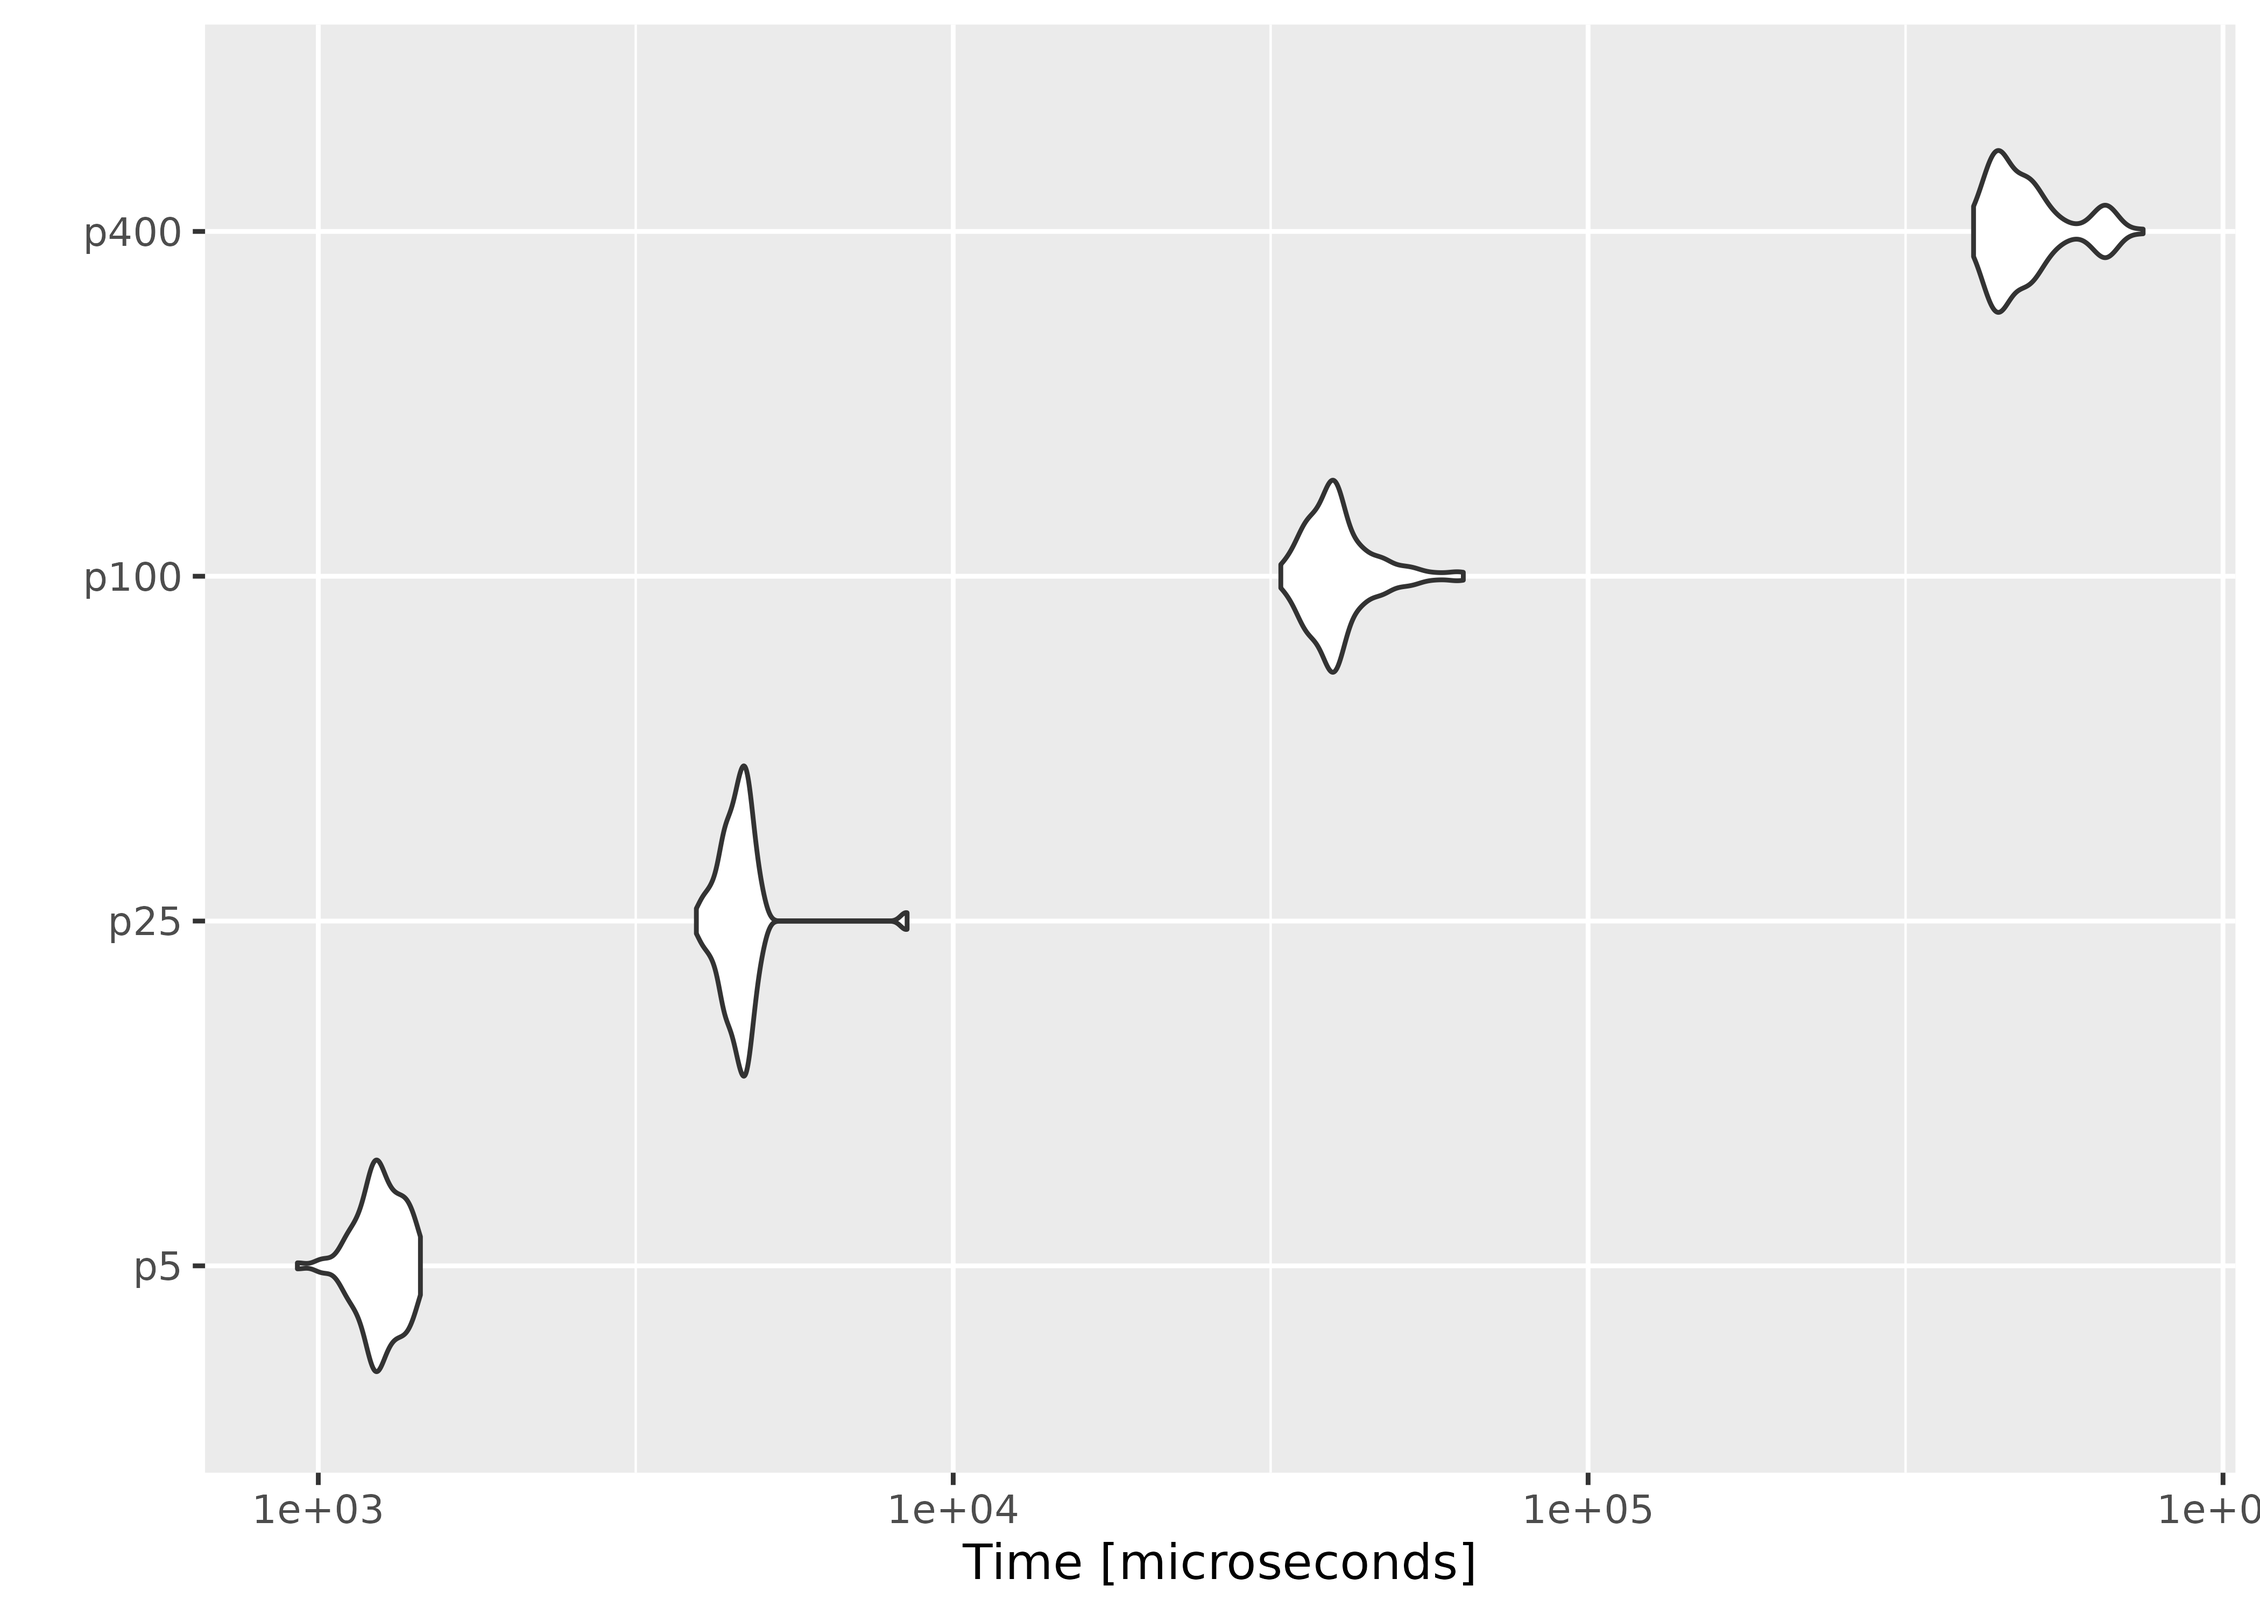
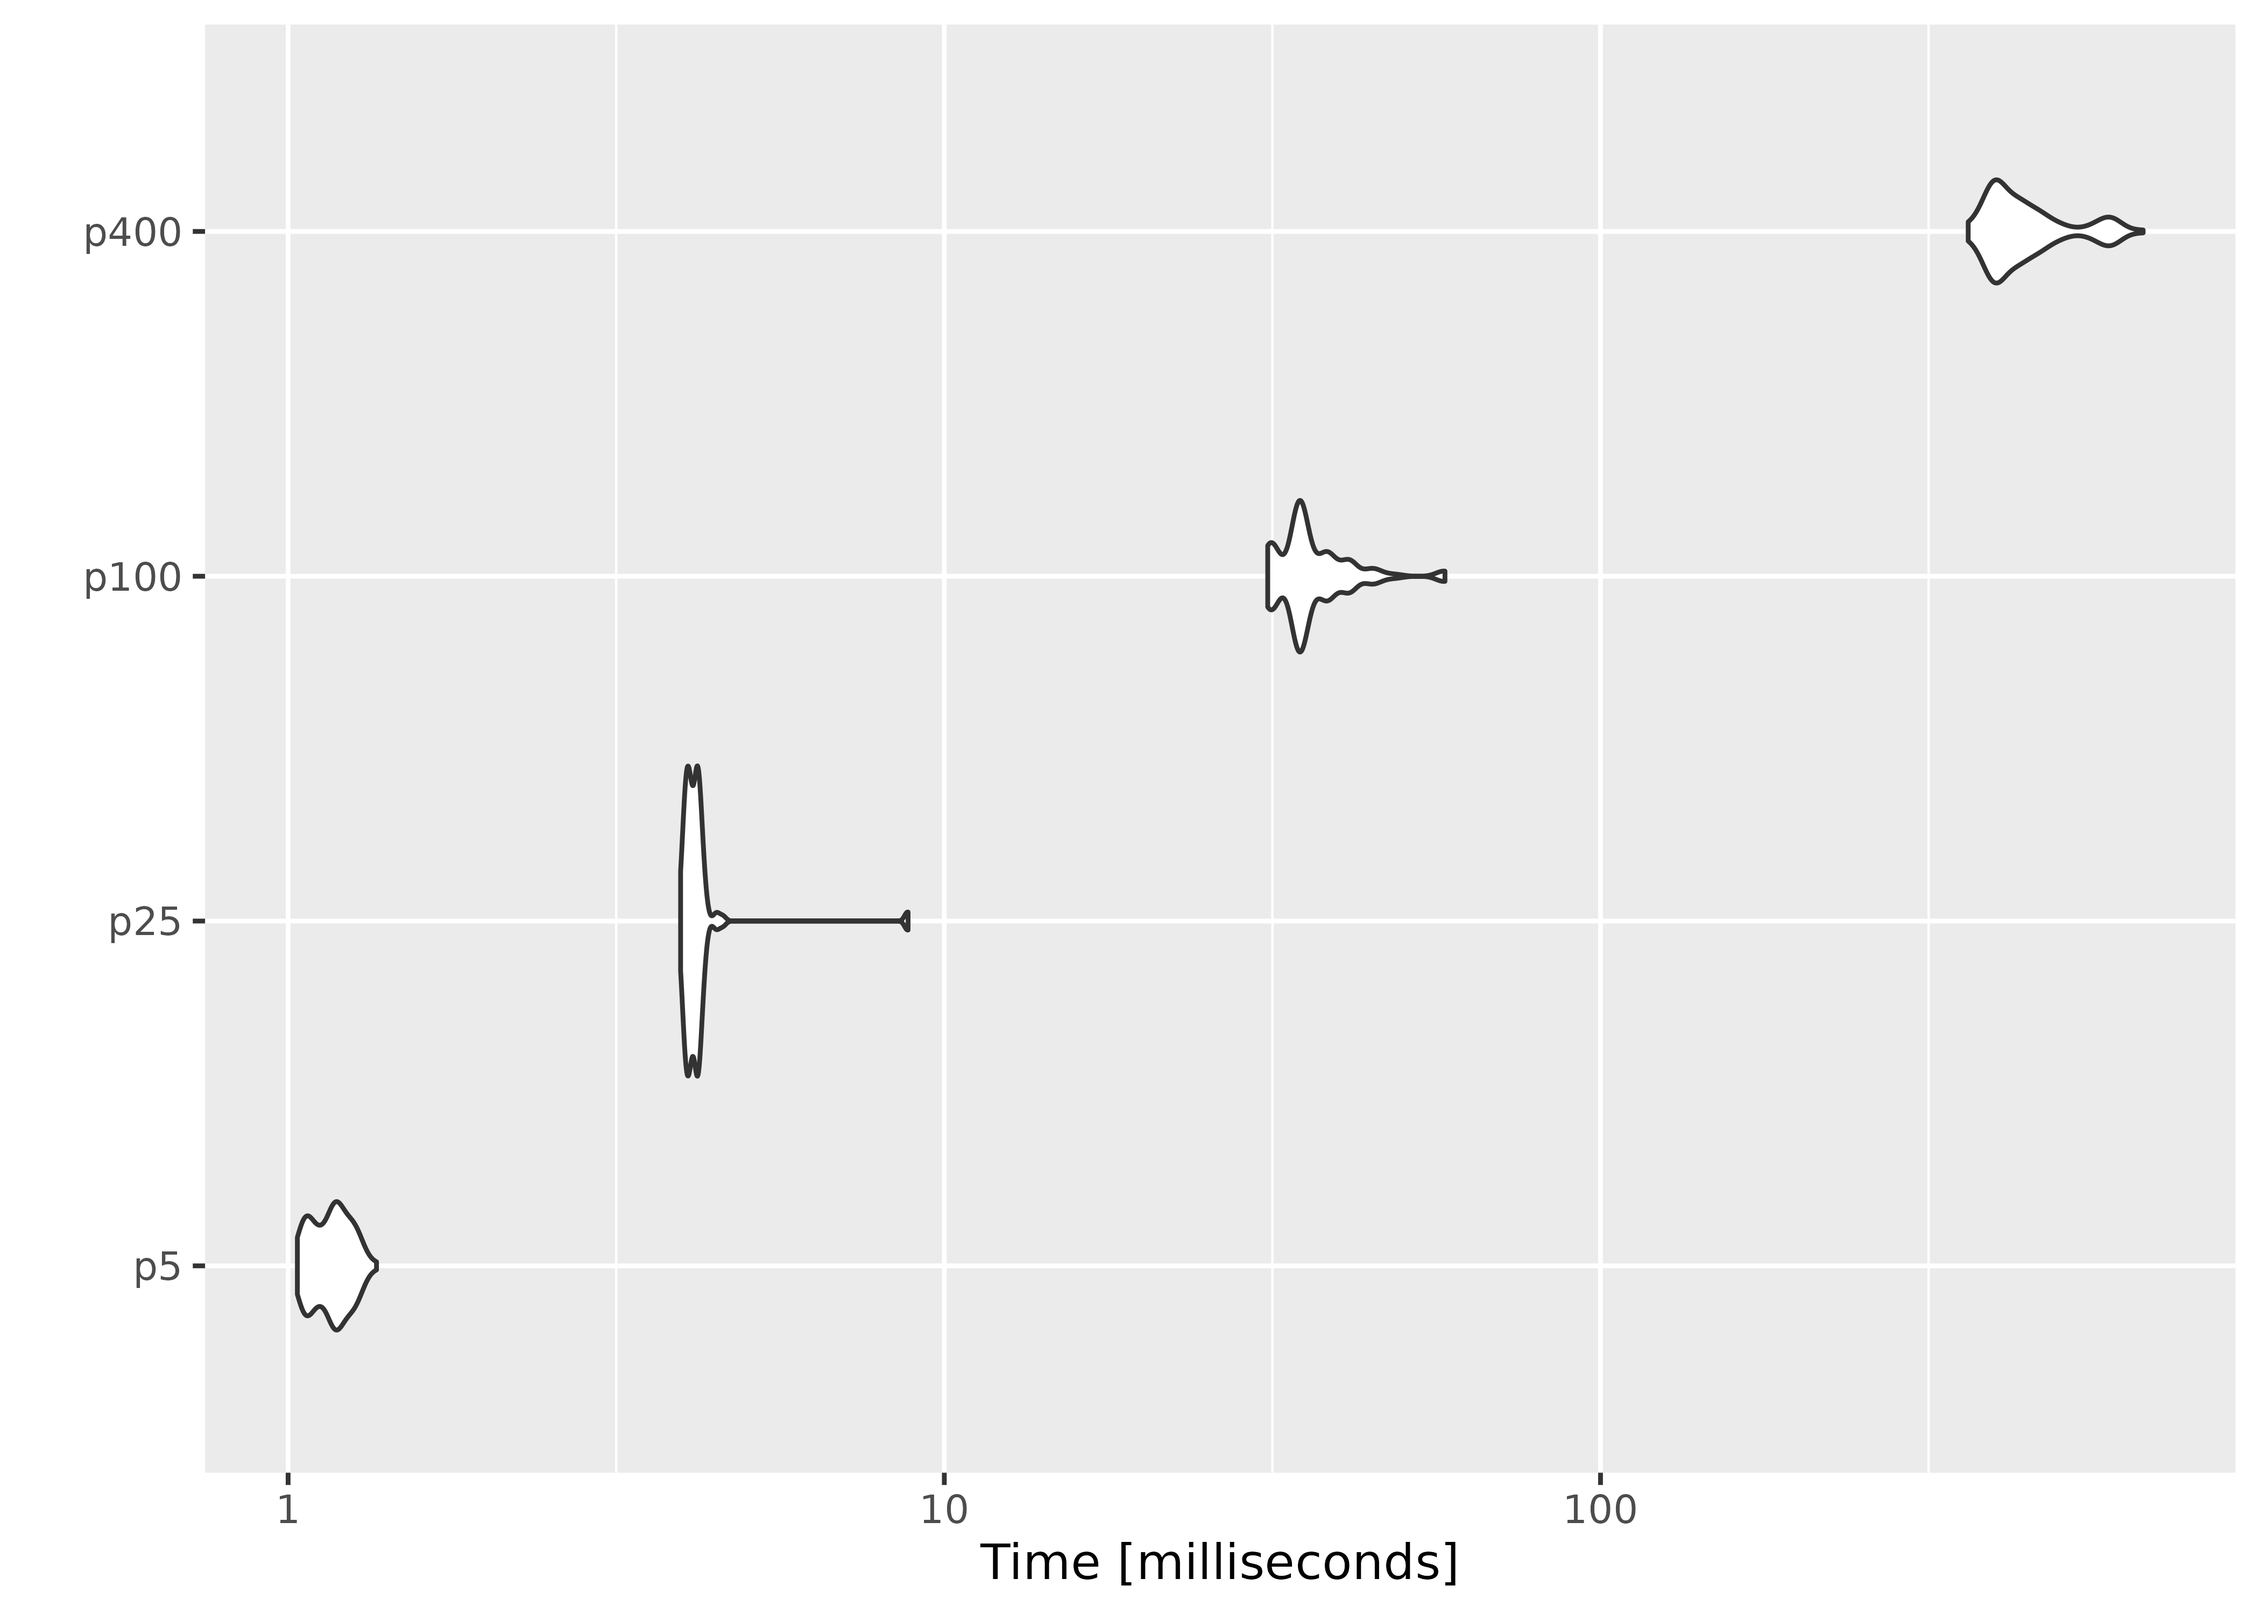
Deploying to gh-pages from @ ropensci/melt@787aca827718a06e23c01962b8e9ebf1b72043b6 🚀

diff --git a/articles/performance.html b/articles/performance.html
@@ -101,7 +101,7 @@
     
 <p>All the tests were done on an Arch Linux x86_64 machine with an Intel(R) Core(TM) i7 CPU (1.90GHz). We first load the necessary packages.</p>
 <div class="sourceCode" id="cb1"><pre class="downlit sourceCode r">
-<code class="sourceCode R"><span><span class="kw"><a href="https://rdrr.io/r/base/library.html" class="external-link">library</a></span><span class="op">(</span><span class="va"><a href="https://docs.ropensci.org/melt">melt</a></span><span class="op">)</span></span>
+<code class="sourceCode R"><span><span class="kw"><a href="https://rdrr.io/r/base/library.html" class="external-link">library</a></span><span class="op">(</span><span class="va"><a href="https://docs.ropensci.org/melt/">melt</a></span><span class="op">)</span></span>
 <span><span class="kw"><a href="https://rdrr.io/r/base/library.html" class="external-link">library</a></span><span class="op">(</span><span class="va"><a href="https://github.com/joshuaulrich/microbenchmark/" class="external-link">microbenchmark</a></span><span class="op">)</span></span>
 <span><span class="kw"><a href="https://rdrr.io/r/base/library.html" class="external-link">library</a></span><span class="op">(</span><span class="va"><a href="https://ggplot2.tidyverse.org" class="external-link">ggplot2</a></span><span class="op">)</span></span></code></pre></div>
 <div class="section level2">
@@ -127,11 +127,11 @@
 <div class="sourceCode" id="cb3"><pre class="downlit sourceCode r">
 <code class="sourceCode R"><span><span class="va">result</span></span>
 <span><span class="co">#&gt; Unit: microseconds</span></span>
-<span><span class="co">#&gt;  expr      min        lq       mean    median       uq      max neval</span></span>
-<span><span class="co">#&gt;  n1e2    555.6    694.70    791.557    726.60    804.9   6032.9   100</span></span>
-<span><span class="co">#&gt;  n1e3   1847.8   2137.75   2318.756   2285.15   2455.5   2938.4   100</span></span>
-<span><span class="co">#&gt;  n1e4  16990.2  19561.60  22689.043  23125.65  25176.3  30719.7   100</span></span>
-<span><span class="co">#&gt;  n1e5 316401.4 386003.15 446487.553 431242.35 501957.6 622759.5   100</span></span>
+<span><span class="co">#&gt;  expr      min        lq       mean    median        uq      max neval</span></span>
+<span><span class="co">#&gt;  n1e2    603.1    638.70    742.942    669.85    734.85   6476.3   100</span></span>
+<span><span class="co">#&gt;  n1e3   1738.7   1920.15   2076.771   2044.65   2189.45   2596.5   100</span></span>
+<span><span class="co">#&gt;  n1e4  15570.2  17198.05  20469.489  20850.65  22826.60  28099.0   100</span></span>
+<span><span class="co">#&gt;  n1e5 317074.2 374745.75 435331.060 419006.90 496996.95 601024.3   100</span></span>
 <span><span class="fu"><a href="https://ggplot2.tidyverse.org/reference/autoplot.html" class="external-link">autoplot</a></span><span class="op">(</span><span class="va">result</span><span class="op">)</span></span></code></pre></div>
 <p><img src="performance_files/figure-html/unnamed-chunk-3-1.png" width="100%" style="display: block; margin: auto;"></p>
 </div>
@@ -161,12 +161,12 @@
 <span><span class="op">)</span></span></code></pre></div>
 <div class="sourceCode" id="cb5"><pre class="downlit sourceCode r">
 <code class="sourceCode R"><span><span class="va">result2</span></span>
-<span><span class="co">#&gt; Unit: microseconds</span></span>
-<span><span class="co">#&gt;  expr      min        lq       mean    median       uq      max neval</span></span>
-<span><span class="co">#&gt;    p5    926.9   1201.80   1256.673   1250.05   1340.3   1448.3   100</span></span>
-<span><span class="co">#&gt;   p25   3939.8   4394.15   4639.331   4596.30   4733.9   8460.3   100</span></span>
-<span><span class="co">#&gt;  p100  32809.0  37127.90  40821.704  39617.05  42261.3  63600.3   100</span></span>
-<span><span class="co">#&gt;  p400 404688.9 440041.00 496589.258 471555.45 515022.2 748510.2   100</span></span>
+<span><span class="co">#&gt; Unit: milliseconds</span></span>
+<span><span class="co">#&gt;  expr      min        lq       mean    median        uq      max neval</span></span>
+<span><span class="co">#&gt;    p5   1.0330   1.08505   1.163717   1.17345   1.22545   1.3637   100</span></span>
+<span><span class="co">#&gt;   p25   3.9638   4.05515   4.243012   4.14690   4.21945   8.8060   100</span></span>
+<span><span class="co">#&gt;  p100  31.1075  34.41665  36.645821  34.90415  38.22430  57.9376   100</span></span>
+<span><span class="co">#&gt;  p400 363.3345 398.14905 448.508370 429.79060 464.39500 671.2899   100</span></span>
 <span><span class="fu"><a href="https://ggplot2.tidyverse.org/reference/autoplot.html" class="external-link">autoplot</a></span><span class="op">(</span><span class="va">result2</span><span class="op">)</span></span></code></pre></div>
 <p><img src="performance_files/figure-html/unnamed-chunk-5-1.png" width="100%" style="display: block; margin: auto;"> On average, evaluating empirical likelihood with a 100000×10 or 1000×400 matrix at a parameter value satisfying the convex hull constraint takes less than a second.</p>
 </div>

diff --git a/index.html b/index.html
@@ -142,7 +142,7 @@
 <h2 id="usage">Usage<a class="anchor" aria-label="anchor" href="#usage"></a>
 </h2>
 <div class="sourceCode" id="cb4"><pre class="downlit sourceCode r">
-<code class="sourceCode R"><span><span class="kw"><a href="https://rdrr.io/r/base/library.html" class="external-link">library</a></span><span class="op">(</span><span class="va"><a href="https://docs.ropensci.org/melt">melt</a></span><span class="op">)</span></span>
+<code class="sourceCode R"><span><span class="kw"><a href="https://rdrr.io/r/base/library.html" class="external-link">library</a></span><span class="op">(</span><span class="va"><a href="https://docs.ropensci.org/melt/">melt</a></span><span class="op">)</span></span>
 <span><span class="fu"><a href="https://rdrr.io/r/base/Random.html" class="external-link">set.seed</a></span><span class="op">(</span><span class="fl">971112</span><span class="op">)</span></span>
 <span></span>
 <span><span class="co">## Test for the mean</span></span>

diff --git a/authors.html b/authors.html
@@ -92,13 +92,13 @@
 
     <p>Kim E (2022).
 <em>melt: Multiple Empirical Likelihood Tests</em>.
-https://docs.ropensci.org/melt, https://github.com/ropensci/melt. 
+https://docs.ropensci.org/melt/, https://github.com/ropensci/melt. 
 </p>
     <pre>@Manual{,
   title = {melt: Multiple Empirical Likelihood Tests},
   author = {Eunseop Kim},
   year = {2022},
-  note = {https://docs.ropensci.org/melt, https://github.com/ropensci/melt},
+  note = {https://docs.ropensci.org/melt/, https://github.com/ropensci/melt},
 }</pre>
 
   </div>
